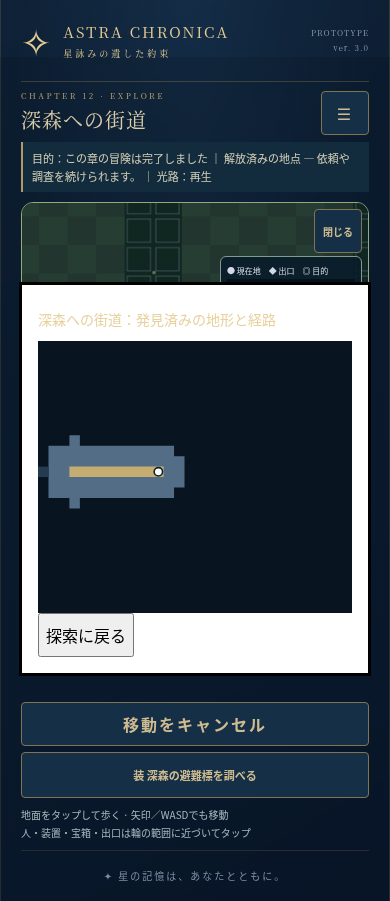
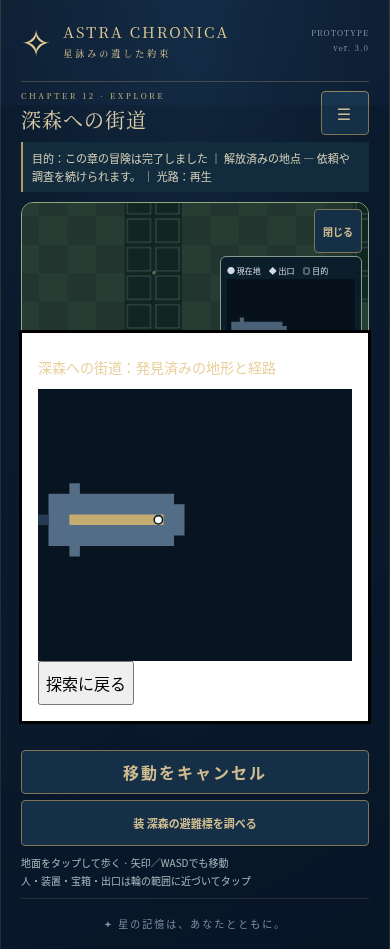
fix(v3.8): keep map controls outside the walking field

diff --git a/src/exploration/minimap-view.ts b/src/exploration/minimap-view.ts
@@ -11,10 +11,11 @@ export function mountMiniMap(viewport:HTMLElement,onToggle:()=>void,owner:object
  const expand=document.createElement('button');expand.type='button';expand.className='secondary';expand.textContent='地図を拡大';panel.append(expand);
  const dialog=document.createElement('dialog');dialog.id='world-map-expanded';dialog.setAttribute('aria-label','発見済みの探索地図');const title=document.createElement('h2'),image=document.createElement('div'),close=document.createElement('button');close.type='button';close.textContent='探索に戻る';dialog.append(title,image,close);viewport.append(dialog);
  expand.onclick=e=>{e.stopPropagation();title.textContent=svg.getAttribute('aria-label');image.replaceChildren(svg.cloneNode(true));image.querySelectorAll('[id]').forEach(e=>e.removeAttribute('id'));onExpanded(true);dialog.showModal();close.focus()};close.onclick=()=>dialog.close();dialog.addEventListener('close',()=>onExpanded(false));
+ const tools=document.createElement('div');tools.id='world-minimap-tools';tools.append(routeToggle,expand);viewport.after(tools);
  let showRoute=true;routeToggle.onclick=e=>{e.stopPropagation();showRoute=!showRoute;routeToggle.textContent=`経路 ${showRoute?'ON':'OFF'}`;routeToggle.setAttribute('aria-pressed',String(showRoute));route.setAttribute('visibility',showRoute?'visible':'hidden')};
- let open=preferences.get(owner)??false,disposed=false,last='';const stop=(e:Event)=>e.stopPropagation();button.addEventListener('pointerdown',stop);button.onclick=e=>{e.stopPropagation();open=!open;preferences.set(owner,open);button.setAttribute('aria-expanded',String(open));button.textContent=open?'閉じる':'地図';panel.hidden=!open;onToggle()};
- button.setAttribute('aria-expanded',String(open));button.textContent=open?'閉じる':'地図';panel.hidden=!open;
+ let open=preferences.get(owner)??false,disposed=false,last='';const stop=(e:Event)=>e.stopPropagation();button.addEventListener('pointerdown',stop);button.onclick=e=>{e.stopPropagation();open=!open;preferences.set(owner,open);button.setAttribute('aria-expanded',String(open));button.textContent=open?'閉じる':'地図';panel.hidden=!open;tools.hidden=!open;onToggle()};
+ button.setAttribute('aria-expanded',String(open));button.textContent=open?'閉じる':'地図';panel.hidden=!open;tools.hidden=!open;
  return {get routeVisible(){return showRoute},get open(){return open},update(s:MiniMapSnapshot){if(disposed||!open)return;svg.setAttribute('aria-label',`${s.name}：発見済みの地形と経路`);route.setAttribute('d',s.route.map(points=>points.map((p,i)=>`${i?'L':'M'}${p.x} ${p.y}`).join('')).join(''));svg.setAttribute('viewBox',`0 0 ${s.width} ${s.height}`);const key=`${s.version}:${s.cells.map(c=>c.terrain).join('')}:${s.exits.map(e=>e.id).join(',')}`;if(key!==last){last=key;const rect=(x:number,y:number)=>`M${x} ${y}h1v1h-1z`;floor.setAttribute('d',s.cells.filter(c=>c.terrain==='.').map(c=>rect(c.x,c.y)).join(''));walls.setAttribute('d',s.cells.filter(c=>c.terrain!=='.').map(c=>rect(c.x,c.y)).join(''));trail.setAttribute('d',s.cells.filter(c=>c.walked&&c.terrain==='.').map(c=>rect(c.x,c.y)).join(''));exits.setAttribute('d',s.exits.map(e=>`M${e.x} ${e.y-.55}l.55 .55l-.55 .55l-.55-.55z`).join(''))}
  player.setAttribute('cx',String(s.player.x));player.setAttribute('cy',String(s.player.y));player.id='world-minimap-player';goal.setAttribute('visibility',s.objective?'visible':'hidden');if(s.objective){goal.setAttribute('cx',String(s.objective.x));goal.setAttribute('cy',String(s.objective.y))}root.dataset.state=JSON.stringify({player:s.player,exits:s.exits,objective:s.objective,seen:s.cells.length,walked:s.walkedCount});root.querySelector('#world-minimap-walked')!.textContent=`金色：歩いた道（${s.walkedCount}区画）`;
- },dispose(){disposed=true;button.removeEventListener('pointerdown',stop);button.onclick=null;routeToggle.onclick=null;expand.onclick=null;close.onclick=null;dialog.remove();root.remove()}};
+ },dispose(){disposed=true;button.removeEventListener('pointerdown',stop);button.onclick=null;routeToggle.onclick=null;expand.onclick=null;close.onclick=null;dialog.remove();tools.remove();root.remove()}};
 }

diff --git a/src/exploration/exploration.css b/src/exploration/exploration.css
@@ -16,3 +16,5 @@
 #world-nearby [data-objective="true"] {border:2px solid #e6d299;background:#394353;}
 
 #world-minimap-panel button{pointer-events:auto;min-height:44px;width:calc(50% - 2px);margin:2px 1px;font-size:10px;letter-spacing:0;padding:2px;touch-action:manipulation}#world-map-expanded{width:min(92vw,640px);max-height:85svh;overflow:auto}#world-map-expanded svg{display:block;width:100%;max-height:65svh;background:#08141f}#world-map-expanded button,#world-safe-candidate,#world-stop{min-height:44px}#world-map-expanded h2{font-size:14px;overflow-wrap:anywhere}
+
+#world-minimap-tools{display:flex;gap:4px;margin-top:4px}#world-minimap-tools[hidden]{display:none}#world-minimap-tools button{min-height:44px;flex:1;font-size:12px;letter-spacing:0;margin:0}
